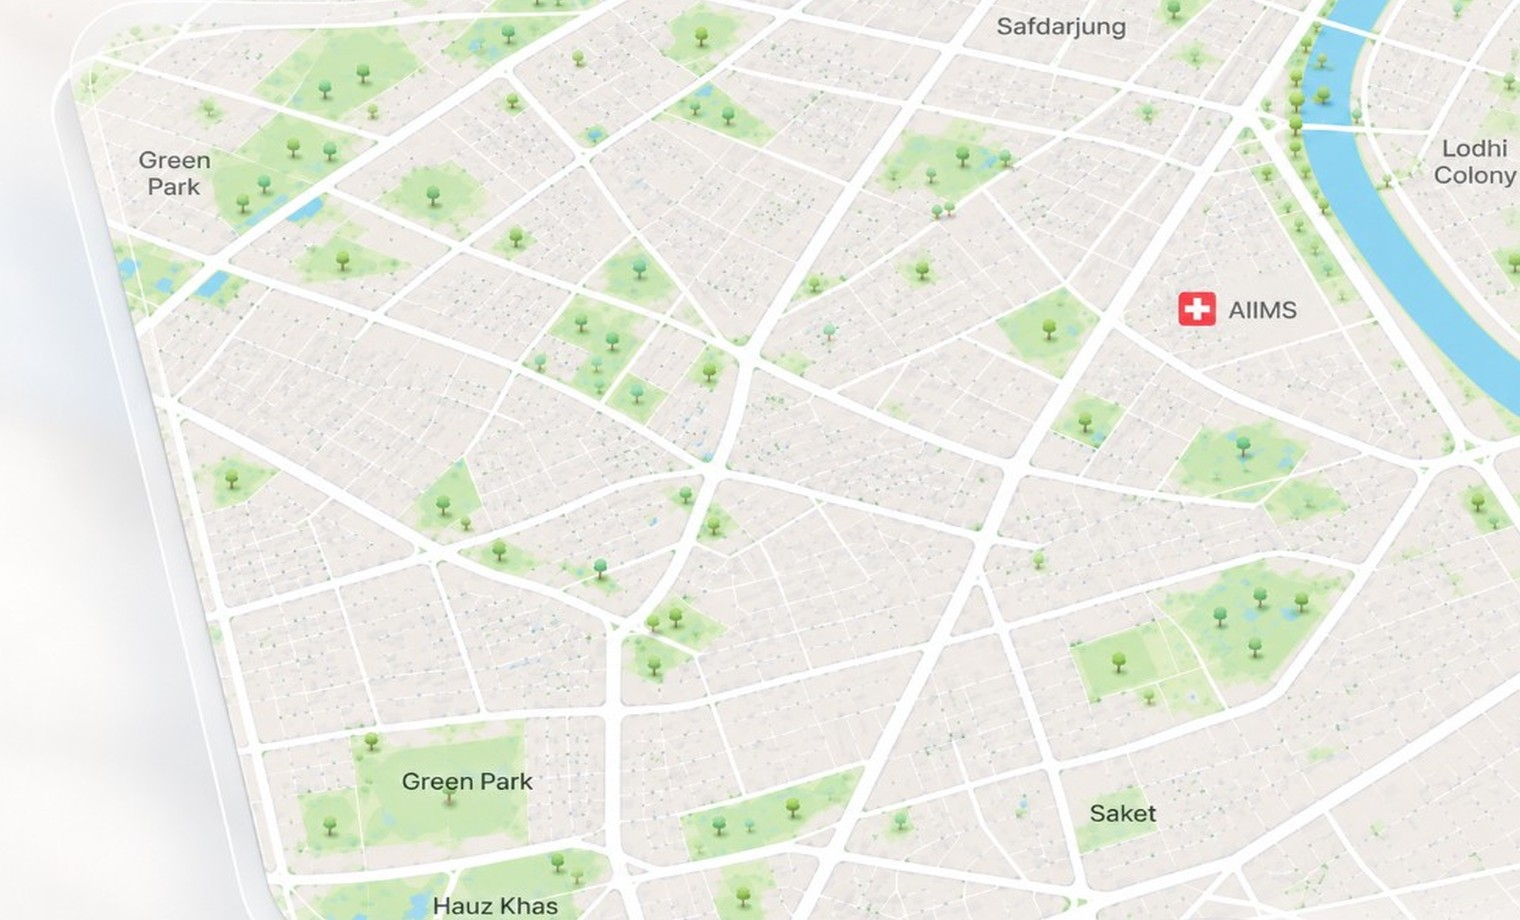
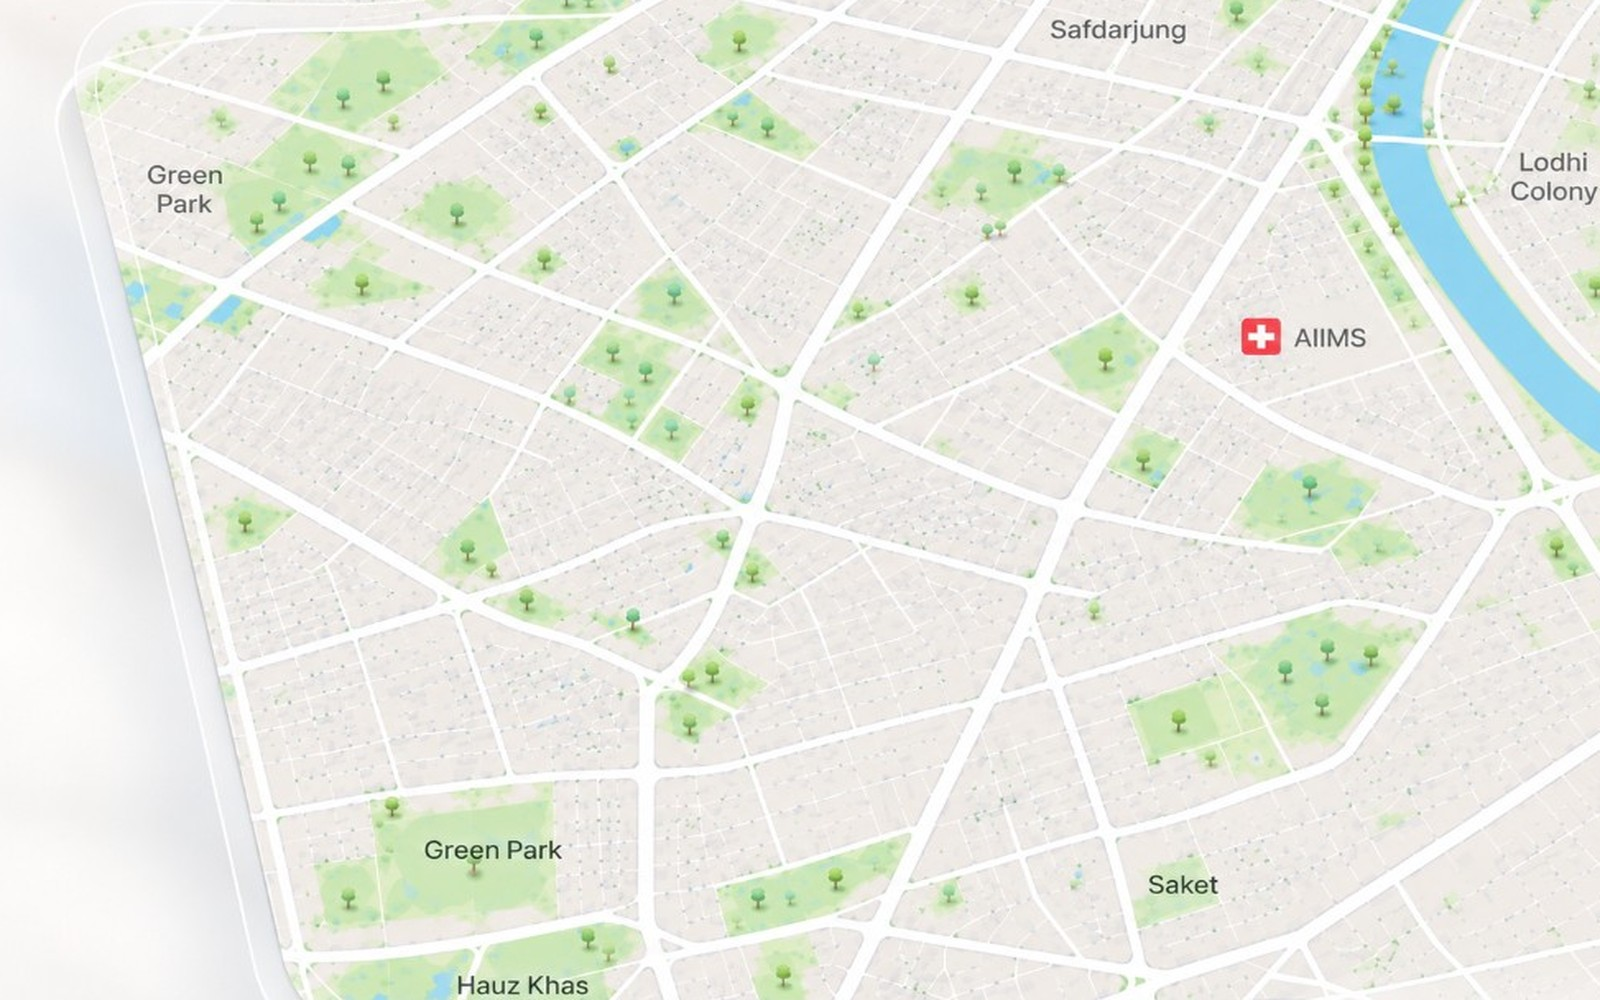
new

diff --git a/frontend/src/features/home/hero-home-visit/live-map-card.tsx b/frontend/src/features/home/hero-home-visit/live-map-card.tsx
@@ -9,10 +9,56 @@ import {
   ROUTE_LEN,
   THEMES,
   TRIP_SECS,
+  headingAt,
   pointAt,
   projectToPlane,
   type MapTheme,
 } from './demo-map';
+
+function DoctorCarMarker({ heading, jump }: { heading: number; jump: boolean }) {
+  return (
+    <div className="flex flex-col items-center">
+      <div className="relative z-[2] mb-0.5 flex flex-col items-center">
+        <div className="size-[46px] overflow-hidden rounded-full border-[3px] border-white bg-white shadow-[0_8px_22px_-8px_rgba(14,18,34,0.55)]">
+          <img src="/home-visit/doctor-preview.png" alt="" className="size-full object-cover object-[center_22%]" />
+        </div>
+        <svg width="18" height="10" viewBox="0 0 18 10" className="-mt-0.5" aria-hidden="true">
+          <path d="M9 10 2.5 2.5h13L9 10Z" fill="#4C4FE0" />
+          <circle cx="9" cy="3.5" r="2.5" fill="#4C4FE0" />
+        </svg>
+      </div>
+      <div
+        className="relative mt-[-2px]"
+        style={{
+          transform: `rotate(${heading.toFixed(1)}deg)`,
+          transition: jump ? 'none' : 'transform 1s linear',
+        }}
+      >
+        <span className="absolute top-1/2 left-1/2 size-10 -translate-x-1/2 -translate-y-1/2 rounded-full bg-[#4C4FE0]/25 blur-md" />
+        <svg width="44" height="58" viewBox="0 0 44 58" fill="none" aria-hidden="true" className="relative drop-shadow-[0_6px_10px_rgba(14,18,34,0.35)]">
+          <path
+            d="M10 18c0-6 4-10 12-10s12 4 12 10l2 14c0 8-6 14-14 14s-14-6-14-14l2-14Z"
+            fill="#FFFFFF"
+            stroke="#FFFFFF"
+            strokeWidth="4"
+            strokeLinejoin="round"
+          />
+          <path
+            d="M14 16h16l1.5 8H12.5L14 16Z"
+            fill="#B8C0D4"
+            stroke="#FFFFFF"
+            strokeWidth="2"
+            strokeLinejoin="round"
+          />
+          <path d="M11 28h22" stroke="#E8EAF1" strokeWidth="2" strokeLinecap="round" />
+          <rect x="13" y="30" width="7" height="10" rx="2" fill="#9AA3B8" stroke="#FFFFFF" strokeWidth="1.5" />
+          <rect x="24" y="30" width="7" height="10" rx="2" fill="#9AA3B8" stroke="#FFFFFF" strokeWidth="1.5" />
+          <path d="M8 38h28" stroke="#FFFFFF" strokeWidth="3" strokeLinecap="round" />
+        </svg>
+      </div>
+    </div>
+  );
+}
 
 const ROUTE_D = ROUTE.map(([x, y], i) => `${i === 0 ? 'M' : 'L'}${x} ${y}`).join('');
 
@@ -45,6 +91,7 @@ export function LiveMapCard({
   const jump = !reduced && ph === 0;
   const pt = pointAt(f);
   const car = projectToPlane(pt[0], pt[1]);
+  const carHeading = headingAt(f);
   const home = projectToPlane(HOME[0], HOME[1]);
   const stageIdx = arrived ? 3 : f > 0.06 ? 2 : 1;
   const stageNames = ['Booked', 'Assigned', 'On the way', 'Arrived'] as const;
@@ -83,7 +130,7 @@ export function LiveMapCard({
         <div
           aria-hidden="true"
           className="absolute inset-0 transition-colors duration-700"
-          style={{ background: night ? '#12151c' : '#e8f0f8' }}
+          style={{ background: night ? '#0a1024' : '#e8f0f8' }}
         />
 
         <div aria-hidden="true" className="absolute inset-0 overflow-hidden">
@@ -95,24 +142,47 @@ export function LiveMapCard({
           <img
             src="/home-visit/map-night.jpg"
             alt=""
-            className={cn('absolute inset-0 size-full object-cover transition-opacity duration-700', !night && 'opacity-0')}
+            className={cn(
+              'absolute inset-0 size-full object-cover object-center transition-opacity duration-700',
+              !night && 'opacity-0',
+            )}
           />
-          <svg viewBox="0 0 600 560" preserveAspectRatio="none" className="absolute inset-0 block size-full">
+          <svg
+            viewBox="0 0 600 560"
+            preserveAspectRatio="none"
+            className={cn('absolute inset-0 block size-full transition-opacity duration-700', night && 'opacity-0')}
+          >
             <defs>
-              <linearGradient id="h30-rgb" x1="0" y1="1" x2="1" y2="0">
-                <stop offset="0" stopColor="#4C4FE0" />
-                <stop offset="1" stopColor="#8C7AF5" />
-              </linearGradient>
-              <filter id="h30-glow" x="-50%" y="-50%" width="200%" height="200%">
-                <feGaussianBlur stdDeviation="7" />
+              <filter id="h30-route-glow" x="-40%" y="-40%" width="180%" height="180%">
+                <feGaussianBlur stdDeviation="5" />
               </filter>
             </defs>
-            <path d={route} fill="none" stroke="#6E70F0" strokeWidth="18" strokeLinecap="round" strokeLinejoin="round" opacity={c.glowOp} filter="url(#h30-glow)" />
-            <path className="h30-flow" d={route} fill="none" stroke={c.routeDash} strokeWidth="5" strokeLinecap="round" strokeLinejoin="round" strokeDasharray="2 12" />
             <path
               d={route}
               fill="none"
-              stroke="url(#h30-rgb)"
+              stroke="#5B8DEF"
+              strokeWidth="16"
+              strokeLinecap="round"
+              strokeLinejoin="round"
+              opacity="0.35"
+              filter="url(#h30-route-glow)"
+            />
+            <path d={route} fill="none" stroke="#FFFFFF" strokeWidth="13" strokeLinecap="round" strokeLinejoin="round" opacity="0.55" />
+            <path
+              d={route}
+              fill="none"
+              stroke="#FFFFFF"
+              strokeWidth="11"
+              strokeLinecap="round"
+              strokeLinejoin="round"
+              strokeDasharray={ROUTE_LEN.toFixed(0)}
+              strokeDashoffset={(ROUTE_LEN * (1 - f)).toFixed(1)}
+              style={{ transition: jump ? 'none' : 'stroke-dashoffset 1s linear' }}
+            />
+            <path
+              d={route}
+              fill="none"
+              stroke="#5B8DEF"
               strokeWidth="7"
               strokeLinecap="round"
               strokeLinejoin="round"
@@ -125,7 +195,11 @@ export function LiveMapCard({
           </svg>
         </div>
 
-        <div aria-hidden="true" className="absolute z-[3] -translate-x-1/2 -translate-y-1/2" style={markerStyle(CLINIC[0], CLINIC[1])}>
+        <div
+          aria-hidden="true"
+          className={cn('absolute z-[3] -translate-x-1/2 -translate-y-1/2 transition-opacity duration-700', night && 'opacity-0')}
+          style={markerStyle(CLINIC[0], CLINIC[1])}
+        >
           <div className="flex flex-col items-center gap-1">
             <span className="rounded-[7px] bg-white px-1.5 py-0.5 text-[11px] font-bold whitespace-nowrap text-[#4C4FE0] shadow-[0_6px_14px_-8px_rgba(14,18,34,0.5)]">Clinic</span>
             <span className="grid size-[26px] place-items-center rounded-full border-[3px] border-[#C9CCF8] bg-white">
@@ -135,13 +209,21 @@ export function LiveMapCard({
             </span>
           </div>
         </div>
-        <div aria-hidden="true" className="h30-nearby absolute z-[3] -translate-x-1/2 -translate-y-1/2" style={markerStyle(NEARBY[0]![0], NEARBY[0]![1])}>
+        <div
+          aria-hidden="true"
+          className={cn('h30-nearby absolute z-[3] -translate-x-1/2 -translate-y-1/2 transition-opacity duration-700', night && 'opacity-0')}
+          style={markerStyle(NEARBY[0]![0], NEARBY[0]![1])}
+        >
           <div className="relative size-[30px]">
             <span className="h30-ping bg-emerald-400/35" />
             <span className="relative grid size-[30px] place-items-center rounded-full border-2 border-white bg-[#E3F6EC] text-[10px] font-bold text-[#1C7A50] shadow-[0_8px_18px_-8px_rgba(14,18,34,0.5)]">RD</span>
           </div>
         </div>
-        <div aria-hidden="true" className="h30-nearby absolute z-[3] -translate-x-1/2 -translate-y-1/2" style={markerStyle(NEARBY[1]![0], NEARBY[1]![1])}>
+        <div
+          aria-hidden="true"
+          className={cn('h30-nearby absolute z-[3] -translate-x-1/2 -translate-y-1/2 transition-opacity duration-700', night && 'opacity-0')}
+          style={markerStyle(NEARBY[1]![0], NEARBY[1]![1])}
+        >
           <div className="relative size-[30px]">
             <span className="h30-ping h30-ping2 bg-emerald-400/35" />
             <span className="relative grid size-[30px] place-items-center rounded-full border-2 border-white bg-[#E4F2FF] text-[10px] font-bold text-[#1F5F9E] shadow-[0_8px_18px_-8px_rgba(14,18,34,0.5)]">PM</span>
@@ -149,7 +231,7 @@ export function LiveMapCard({
         </div>
         <div
           aria-hidden="true"
-          className="h30-bob absolute z-[4]"
+          className={cn('h30-bob absolute z-[4] transition-opacity duration-700', night && 'opacity-0')}
           style={{ left: `${home.leftPct.toFixed(2)}%`, top: `${(home.topPx + 4).toFixed(1)}px` }}
         >
           <div className="flex flex-col items-center">
@@ -166,23 +248,15 @@ export function LiveMapCard({
         </div>
         <div
           aria-hidden="true"
-          className="absolute z-[5] -translate-x-1/2 -translate-y-1/2"
+          className={cn('absolute z-[5] -translate-x-1/2 transition-opacity duration-700', night && 'opacity-0')}
           style={{
             left: `${car.leftPct.toFixed(2)}%`,
             top: `${car.topPx.toFixed(1)}px`,
-            transition: jump ? 'none' : 'left 1s linear, top 1s linear',
+            transform: 'translate(-50%, -72%)',
+            transition: jump ? 'none' : 'left 1s linear, top 1s linear, opacity 0.7s',
           }}
         >
-          <div className="relative size-[46px]">
-            <span className="h30-ping bg-indigo-500/30" />
-            <span className="relative grid size-[46px] place-items-center rounded-full border-[3px] border-white bg-linear-to-br from-[#5B5EF2] to-[#8C7AF5] shadow-[0_14px_28px_-10px_rgba(76,79,224,0.8)]">
-              <svg width="22" height="22" viewBox="0 0 24 24" fill="none" stroke="#FFFFFF" strokeWidth="1.9" strokeLinecap="round" strokeLinejoin="round">
-                <circle cx="5.5" cy="17" r="2.6" />
-                <circle cx="18.5" cy="17" r="2.6" />
-                <path d="M8 17h7l2.5-6H13M17.5 11 16 7h-3M4 14l3-4h5" />
-              </svg>
-            </span>
-          </div>
+          <DoctorCarMarker heading={carHeading} jump={jump} />
         </div>
 
         <div className="absolute top-4 right-4 left-4 z-[6] flex flex-wrap items-start justify-between gap-2.5">
@@ -274,35 +348,56 @@ export function LiveMapCard({
           </div>
         </div>
 
-        <p className="pointer-events-none absolute bottom-[92px] left-4 z-[6] max-w-[70%] text-[10px] leading-snug text-white/85 drop-shadow-[0_1px_2px_rgba(0,0,0,0.65)]">
-          Example area · Map data © Google
+        <p className="pointer-events-none absolute bottom-[88px] left-4 z-[6] max-w-[70%] text-[10px] leading-snug text-white/85 drop-shadow-[0_1px_2px_rgba(0,0,0,0.65)]">
+          {night ? 'Example area · Illustration' : 'Example area · Map data © Google'}
         </p>
-        <div className="h30-fb absolute right-4 bottom-4 left-4 z-[6] flex items-center gap-3.5 rounded-[22px] border border-white bg-white/96 px-4 py-3.5 shadow-[0_30px_60px_-30px_rgba(40,40,110,0.6)] backdrop-blur-[14px]">
-          <span aria-hidden="true" className="grid size-[52px] shrink-0 place-items-center rounded-2xl bg-linear-to-br from-[#FFEFE6] to-[#FFD9C4] text-base font-bold text-[#9A4521]">
-            AR
-          </span>
-          <span className="min-w-0 flex-1">
-            <span className="flex items-center gap-1.5 text-base font-semibold">
-              Dr. Ananya Rao
-              <svg width="15" height="15" viewBox="0 0 24 24" role="img" aria-label="Verified">
-                <circle cx="12" cy="12" r="10" fill="#4C4FE0" />
-                <path d="m8 12.5 2.6 2.5L16 9.5" stroke="#FFFFFF" strokeWidth="2.6" fill="none" strokeLinecap="round" strokeLinejoin="round" />
+        <div
+          className="h30-fb absolute right-3 bottom-3 left-3 z-[6] flex items-center gap-3 rounded-[20px] bg-white px-3.5 py-3 shadow-[0_16px_44px_-18px_rgba(14,18,34,0.28)]"
+          role="group"
+          aria-label="Example assigned doctor (preview)"
+        >
+          <div className="relative shrink-0">
+            <img
+              src="/home-visit/doctor-preview.png"
+              alt=""
+              width={52}
+              height={52}
+              className="size-[52px] rounded-full object-cover object-[center_22%] ring-1 ring-[#ECEEF4]"
+            />
+            <span aria-hidden="true" className="absolute right-0 bottom-0 size-3 rounded-full border-2 border-white bg-[#22C55E]" />
+          </div>
+          <div className="min-w-0 flex-1">
+            <div className="truncate text-[15px] font-semibold leading-tight text-[#0E1222]">Dr. Ananya Rao</div>
+            <div className="text-[13px] text-[#6B7186]">General Physician</div>
+            <div className="mt-0.5 flex items-center gap-1 text-[12.5px] text-[#6B7186]">
+              <svg width="14" height="14" viewBox="0 0 24 24" fill="#F5A623" aria-hidden="true">
+                <path d="M12 2l2.9 6.9L22 9.8l-5.2 4.5 1.6 6.9L12 17.8 5.6 21.2 7.2 14.3 2 9.8l7.1-.9L12 2z" />
               </svg>
-            </span>
-            <span className="block text-[13px] text-[#6B7186]">General physician · MBBS, MD · Reg. checked</span>
-          </span>
-          <span aria-hidden="true" className="flex gap-2">
-            <span className="grid size-[42px] place-items-center rounded-[13px] bg-[#EEEDFF]">
-              <svg width="17" height="17" viewBox="0 0 24 24" fill="none" stroke="#4C4FE0" strokeWidth="2.1" strokeLinecap="round" strokeLinejoin="round">
+              <span>Example profile · Reg. checked</span>
+            </div>
+          </div>
+          <div className="flex shrink-0 gap-2">
+            <button
+              type="button"
+              disabled
+              className="grid size-11 cursor-default place-items-center rounded-full border border-[#ECEEF4] bg-white shadow-[0_4px_14px_-6px_rgba(14,18,34,0.25)]"
+              aria-label="Message (preview only)"
+            >
+              <svg width="18" height="18" viewBox="0 0 24 24" fill="none" stroke="#5C6378" strokeWidth="2" strokeLinecap="round" strokeLinejoin="round" aria-hidden="true">
                 <path d="M21 12a8 8 0 0 1-11.6 7.1L4 20l1-4.6A8 8 0 1 1 21 12z" />
               </svg>
-            </span>
-            <span className="grid size-[42px] place-items-center rounded-[13px] bg-[#0E1222]">
-              <svg width="17" height="17" viewBox="0 0 24 24" fill="none" stroke="#FFFFFF" strokeWidth="2" strokeLinecap="round" strokeLinejoin="round">
+            </button>
+            <button
+              type="button"
+              disabled
+              className="grid size-11 cursor-default place-items-center rounded-full border border-[#ECEEF4] bg-white shadow-[0_4px_14px_-6px_rgba(14,18,34,0.25)]"
+              aria-label="Call (preview only)"
+            >
+              <svg width="18" height="18" viewBox="0 0 24 24" fill="none" stroke="#5C6378" strokeWidth="2" strokeLinecap="round" strokeLinejoin="round" aria-hidden="true">
                 <path d="M22 16.9v3a2 2 0 0 1-2.2 2 19.8 19.8 0 0 1-8.6-3.1 19.5 19.5 0 0 1-6-6A19.8 19.8 0 0 1 2.1 4.2 2 2 0 0 1 4.1 2h3a2 2 0 0 1 2 1.7c.1 1 .4 1.9.7 2.8a2 2 0 0 1-.5 2.1L8 9.9a16 16 0 0 0 6 6l1.3-1.3a2 2 0 0 1 2.1-.4c.9.3 1.8.6 2.8.7a2 2 0 0 1 1.7 2z" />
               </svg>
-            </span>
-          </span>
+            </button>
+          </div>
         </div>
       </div>
     </section>

diff --git a/frontend/src/features/home/hero-home-visit/demo-map.ts b/frontend/src/features/home/hero-home-visit/demo-map.ts
@@ -49,6 +49,16 @@ export function pointAt(frac: number): [number, number] {
   return ROUTE[ROUTE.length - 1]!;
 }
 
+/** Degrees for a top-down car icon (0° = north / up on the map). */
+export function headingAt(frac: number): number {
+  const eps = 0.012;
+  const a = pointAt(Math.max(0, frac - eps));
+  const b = pointAt(Math.min(1, frac + eps));
+  const dx = b[0] - a[0];
+  const dy = b[1] - a[1];
+  return (Math.atan2(dy, dx) * 180) / Math.PI + 90;
+}
+
 export function projectToPlane(x: number, y: number) {
   const cy = PLANE_H / 2;
   const py = (y / 560) * PLANE_H;
